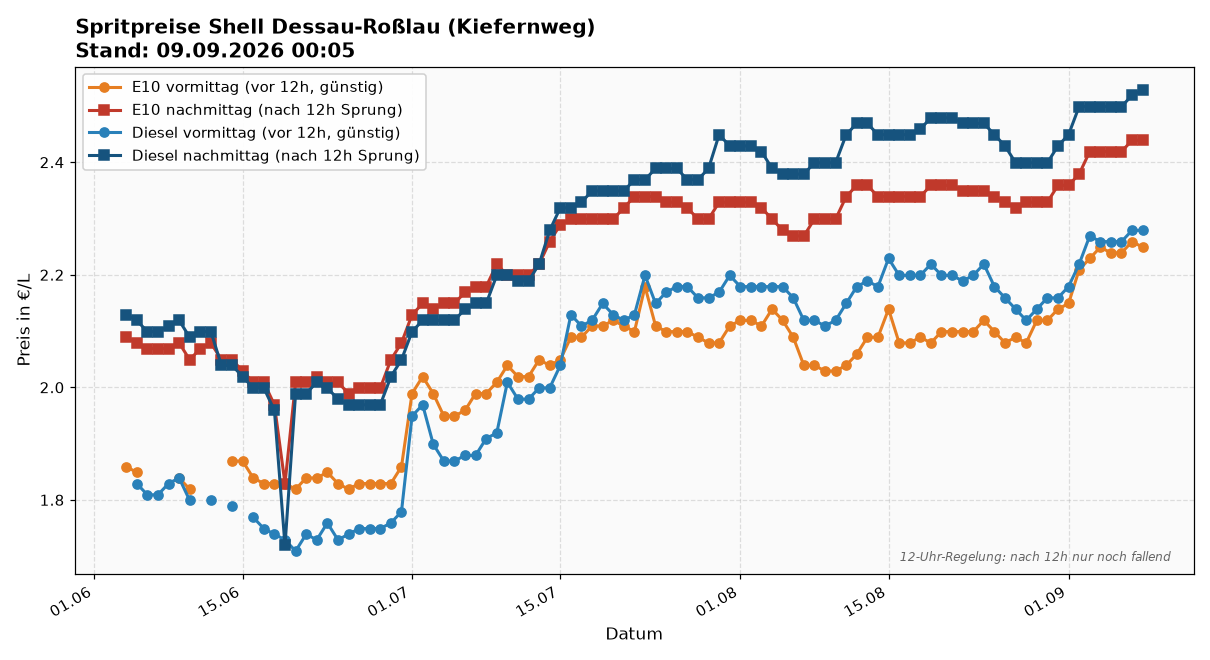
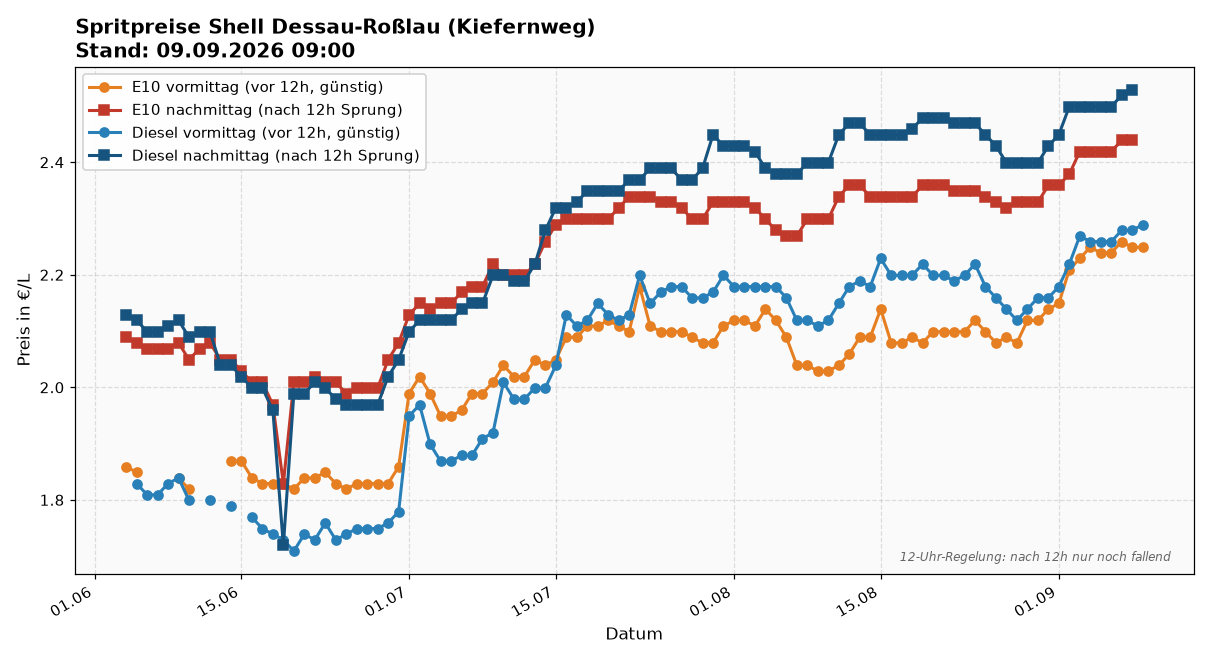
update: spritpreise 2026-09-09 09:00

diff --git a/index.html b/index.html
@@ -19,17 +19,17 @@
 </head>
 <body>
 <h1>🛢 Spritpreise Shell Dessau-Roßlau (Kiefernweg)</h1>
-<div class="sub">Source: Tankerkönig · Stand: 09.09.2026 00:05</div>
+<div class="sub">Source: Tankerkönig · Stand: 09.09.2026 09:00</div>
 
 <img src="latest.png" alt="Preisverlauf">
 
 <div class="latest">
   <strong>Heute (2026-09-09)</strong>
-  <div style="color:#888;font-style:italic;margin-bottom:0.5em;">Noch keine Messung heute — cron läuft 09:00 + 12:10.</div>
+  
   <table>
-    <tr><td>E10 vormittag</td><td class="price">— €</td></tr>
+    <tr><td>E10 vormittag</td><td class="price">2.249 €</td></tr>
     <tr><td>E10 nachmittag</td><td class="price">— €</td></tr>
-    <tr><td>Diesel vormittag</td><td class="price">— €</td></tr>
+    <tr><td>Diesel vormittag</td><td class="price">2.289 €</td></tr>
     <tr><td>Diesel nachmittag</td><td class="price">— €</td></tr>
   </table>
 </div>
